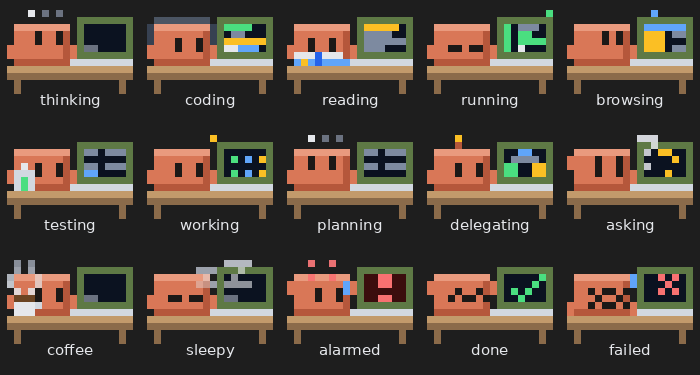
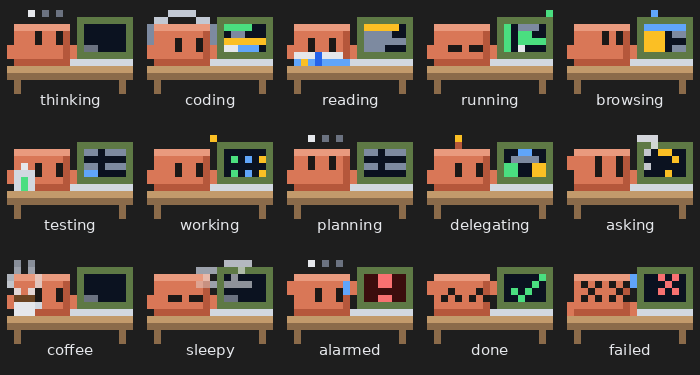
fix: clearer headphones, cleaner done/failed minis, drop alarmed head marks

diff --git a/hooks/art/pet/props.ts b/hooks/art/pet/props.ts
@@ -1,15 +1,17 @@
 import { C, type Pixels, dots, fill } from '../pixels'
 import { COFFEE, PHONE_BAND, PHONE_CUP, BOOK_A, BOOK_B, BOOK_SPINE } from '../palette'
 import type { Activity } from '../../logic/activity'
-import { bang, cloud, ghost, question, wisp } from '../ghost'
+import { cloud, ghost, question, wisp } from '../ghost'
 import { drawZ } from './body'
 
 export const drawProps = (px: Pixels, activity: Activity, frame: number) => {
   switch (activity) {
     case 'coding':
-      fill(px, 3, 2, 8, 1, PHONE_BAND)
-      fill(px, 1, 3, 1, 4, PHONE_CUP)
-      fill(px, 12, 3, 1, 4, PHONE_CUP)
+      fill(px, 4, 1, 6, 1, PHONE_BAND)
+      fill(px, 2, 2, 2, 1, PHONE_BAND)
+      fill(px, 10, 2, 2, 1, PHONE_BAND)
+      fill(px, 0, 3, 2, 4, PHONE_CUP)
+      fill(px, 12, 3, 2, 4, PHONE_CUP)
       break
     case 'researching':
       fill(px, 2, 7, 4, 1, C.white)
@@ -48,9 +50,6 @@ export const drawProps = (px: Pixels, activity: Activity, frame: number) => {
       fill(px, 0, 10, 4, 4, C.edge)
       fill(px, 1, 11, 2, 3, C.green)
       dots(px, C.white, [[2, 9 - (frame % 2)], [1, 8 - (frame % 3 === 0 ? 1 : 0)]])
-      break
-    case 'alarmed':
-      ghost(px, [...bang(3, frame % 2, 3, 0.8), ...bang(9, frame % 2, 4, 0.95)], C.red)
       break
     case 'thinking':
       ghost(px, cloud(7, 0, 0.5))

diff --git a/hooks/art/mini/props.ts b/hooks/art/mini/props.ts
@@ -1,12 +1,14 @@
 import { C, type Pixels, dots, fill } from '../pixels'
-import { bang, ghost, question, wisp, zed } from '../ghost'
+import { ghost, question, wisp, zed } from '../ghost'
 import { COFFEE, PHONE_BAND, PHONE_CUP, BOOK_A, BOOK_B, BOOK_SPINE } from '../palette'
 import type { Activity } from '../../logic/activity'
 
 export const drawProps = (px: Pixels, activity: Activity, frame: number) => {
   switch (activity) {
     case 'coding':
-      fill(px, 1, 1, 8, 1, PHONE_BAND)
+      fill(px, 3, 0, 4, 1, PHONE_BAND)
+      fill(px, 1, 1, 2, 1, PHONE_BAND)
+      fill(px, 7, 1, 2, 1, PHONE_BAND)
       fill(px, 0, 2, 1, 3, PHONE_CUP)
       fill(px, 9, 2, 1, 3, PHONE_CUP)
       break
@@ -32,9 +34,6 @@ export const drawProps = (px: Pixels, activity: Activity, frame: number) => {
       fill(px, 1, 5, 3, 3, C.edge)
       fill(px, 2, 6, 1, 2, C.green)
       dots(px, C.white, [[2, 4 - (frame % 2)]])
-      break
-    case 'alarmed':
-      ghost(px, [...bang(3, frame % 2, 3, 0.9), ...bang(6, frame % 2, 3, 0.9)], C.red)
       break
     case 'delegating':
       dots(px, C.shade, [[4, 1]])

diff --git a/hooks/art/mini/body.ts b/hooks/art/mini/body.ts
@@ -23,11 +23,11 @@ export const drawPet = (px: Pixels, member: Mini, frame: number, activity: Activ
     at(9, isRaised ? 3 : 5, 1, 2, C.body)
     if (isTyping) fill(px, 9, 7, 1, 1, beat ? C.body : C.edge)
   } else if (status === 'done') {
-    dots(px, C.eye, [[3, 5 + hop], [4, 4 + hop], [5, 5 + hop], [6, 5 + hop], [7, 4 + hop], [8, 5 + hop]])
+    dots(px, C.eye, [[2, 5 + hop], [3, 4 + hop], [4, 5 + hop], [6, 5 + hop], [7, 4 + hop], [8, 5 + hop]])
     at(0, 3, 1, 2, C.body)
     at(9, 3, 1, 2, C.body)
   } else {
-    dots(px, C.eye, [[3, 4], [5, 4], [4, 5], [3, 6], [5, 6], [6, 4], [8, 4], [7, 5], [6, 6], [8, 6]])
+    dots(px, C.eye, [[2, 3], [4, 3], [3, 4], [2, 5], [4, 5], [6, 3], [8, 3], [7, 4], [6, 5], [8, 5]])
     dots(px, SWEAT, [[9, 2], [9, 3]])
     at(0, 6, 1, 2, C.body)
     at(9, 6, 1, 2, C.body)

diff --git a/hooks/art/ghost.ts b/hooks/art/ghost.ts
@@ -27,9 +27,6 @@ export const zed = (x: number, y: number, size: number, alpha: number) =>
     ...span(size - 2).map((i): Point => [size - 2 - i, 1 + i]),
   ])
 
-export const bang = (x: number, y: number, height: number, alpha: number) =>
-  shape(x, y, alpha, [...span(height - 2).map((i): Point => [0, i]), [0, height - 1]])
-
 export const question = (x: number, y: number, alpha: number) =>
   shape(x, y, alpha, [[0, 0], [1, 0], [2, 0], [2, 1], [1, 2], [1, 4]])
 

diff --git a/hooks/art/palette.ts b/hooks/art/palette.ts
@@ -1,7 +1,7 @@
 export const COFFEE = 0x6b4423
 export const ALARM_BG = 0x3b0d0d
-export const PHONE_BAND = 0x4b5563
-export const PHONE_CUP = 0x374151
+export const PHONE_BAND = 0xc2c9d4
+export const PHONE_CUP = 0x7d8aa0
 export const BOOK_A = 0x60a5fa
 export const BOOK_B = 0xfbbf24
 export const BOOK_SPINE = 0x2563eb
